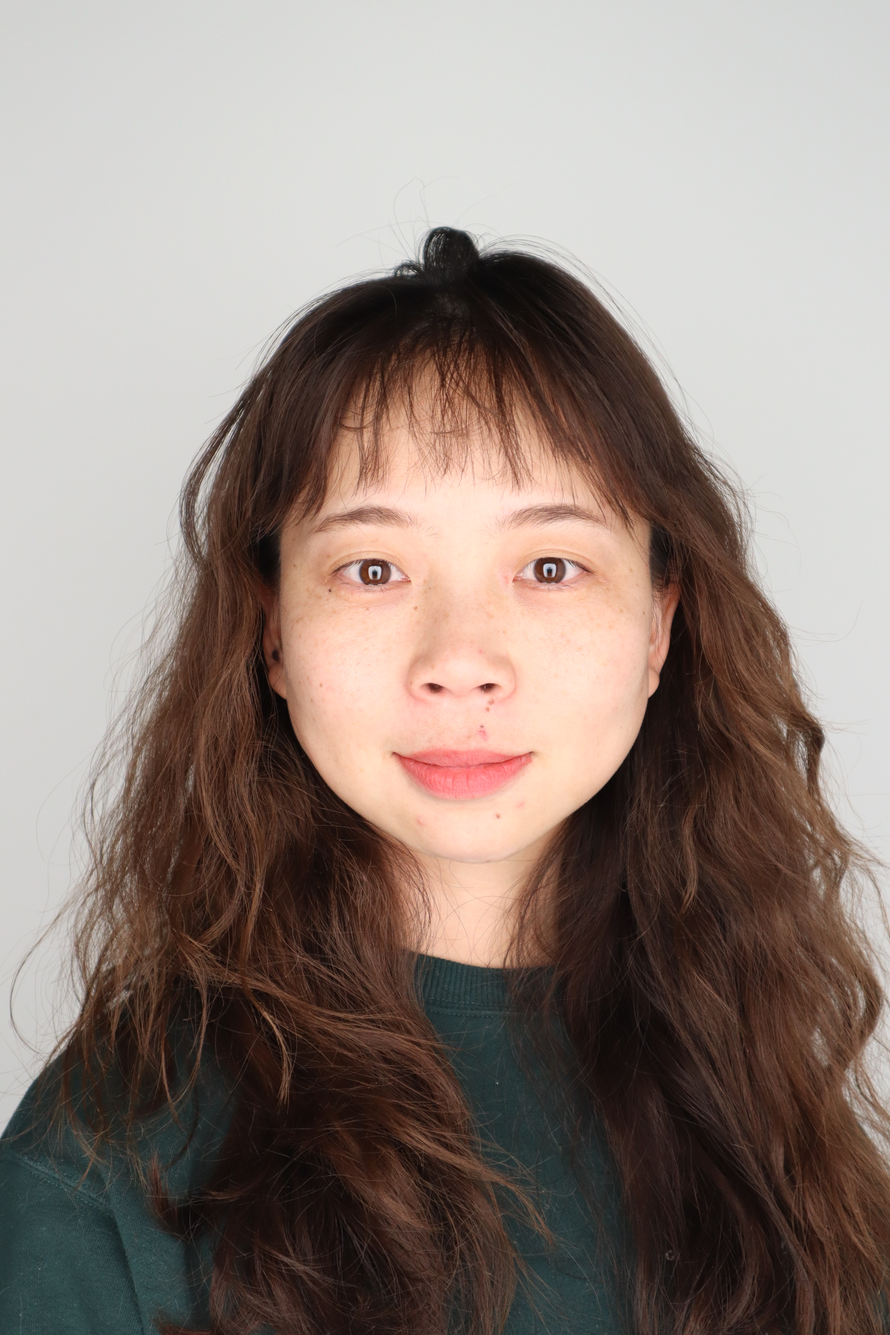
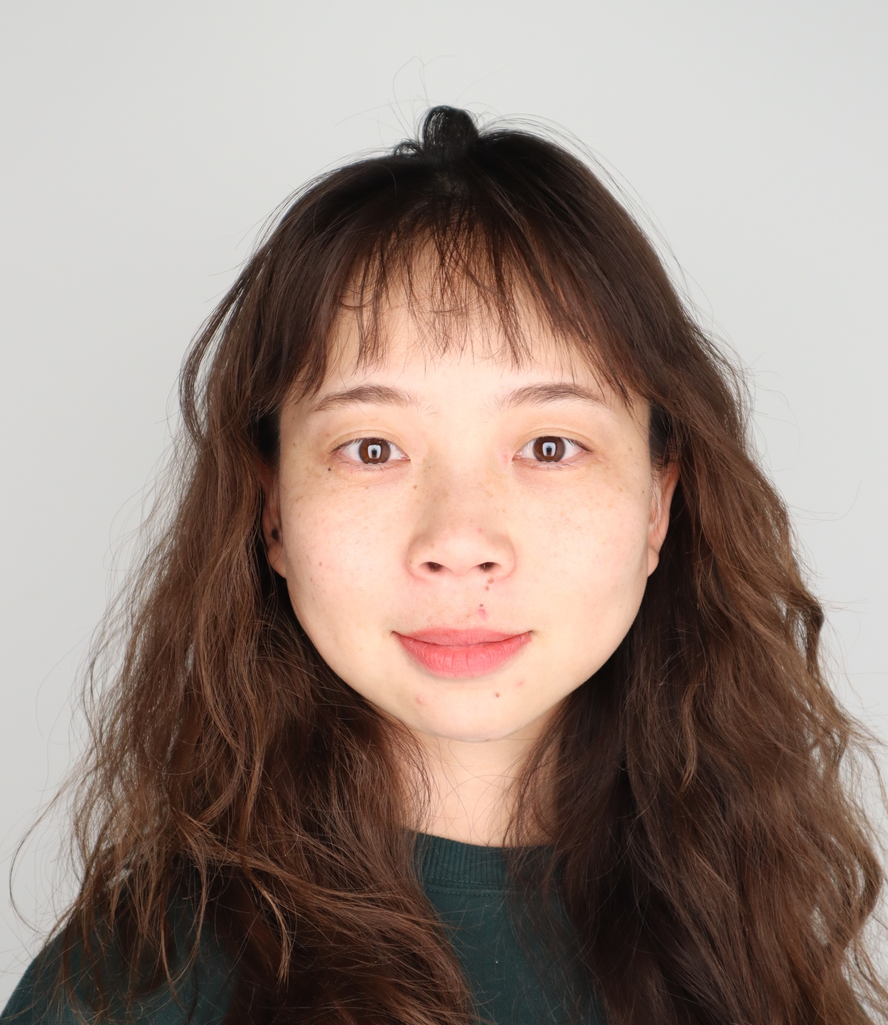
Update the about me area styling

diff --git a/index.html b/index.html
@@ -56,32 +56,65 @@
     </header>
 
     <main>
+
+      <!--About Me Page-->
       <div class="about_me">
-        <div class="container about_me_container">
-          <img id="shu_photo" src="assets/img/shu-photo.jpg">
+        <div class="container me_description">
+          <h2>Hello</h2>
+          <h3>I'm Shu</h3>
+          <img id="shu_photo" src="assets/img/shu-photo.jpg" alt="Photo: Shu Wang">
+
           <div id=about_me>
-            <h2>I am Shu Wang</h2>
+            <h4>Here's how I came here...</h4>
             <p>
-              I build data-driven and user-friendly tools, with experience in Python, R, Java, SQL,
-              and modern web technologies. I'm transitioning from bioinformatics to software engineering.
+              I am a bioinformatician turned software developer who fell in love with coding 
+              while analyzing complex data in my research.  
+            <br><br>
+              I’m now pursuing my M.S. in Computer Science at Georgia Tech, learning full-stack 
+              development through Techtonica, and building meaningful projects that bridge logic 
+              and creativity.  
+            <br><br>
             </p>
+          </div>
+          <div class="contact_info">
+            <button id="download_cv_btn">Download CV</button>
+            <button id="contact_me_btn">Contact Me</button>
+          </div>
+        </div>
+        
+        <div class="me_right">
+          <div class="education">
+            <h2>Education</h2>
+            <ul>
+              <li>
+                Data Analyst, Georgetown University –
+                Automated workflows, implemented reproducible code, collaborated on ML-based biomarker projects.
+              </li>
+              <li>
+                Research Scientist –
+                Applied statistical and computational methods to real-world biological problems.
+              </li>
+            </ul>
           </div>
 
 
-      <div class="work-experience">
-        <h2>Work Experience</h2>
-        <ul>
-          <li>
-            Data Analyst, Georgetown University –
-            Automated workflows, implemented reproducible code, collaborated on ML-based biomarker projects.
-          </li>
-          <li>
-            Research Scientist –
-            Applied statistical and computational methods to real-world biological problems.
-          </li>
-        </ul>
-      </div>
+          <div class="work-experience">
+            <h2>Work Experience</h2>
+            <ul>
+              <li>
+                Data Analyst, Georgetown University –
+                Automated workflows, implemented reproducible code, collaborated on ML-based biomarker projects.
+              </li>
+              <li>
+                Research Scientist –
+                Applied statistical and computational methods to real-world biological problems.
+              </li>
+            </ul>
+          </div>
         </div>
+
+
+
       </div>
 
 

diff --git a/assets/css/style.css b/assets/css/style.css
@@ -47,22 +47,33 @@ header {
 
 main {
   background-color: #76a4a7;
-  padding: 5% 15%;
 }
 
+/*Styling of About me Page */
 .about_me {
+  display: flex;
+  flex-direction: row;
   height: 100vh;
 }
 
-#shu_photo {
+.me_description {
+  background-color:#F0D2D1;
+  justify-content: center;
+
+  padding-top:10vh;
+  padding-left: 8vh;
+  padding-right: 5vh;
   width: 30%;
+}
+
+
+
+#shu_photo {
+  width: 60%;
   height: auto;
 }
 
-.about_me_container {
-  display: flex;
-  flex-direction: row;
-}
+
 
 .projects {
   display: flex;
